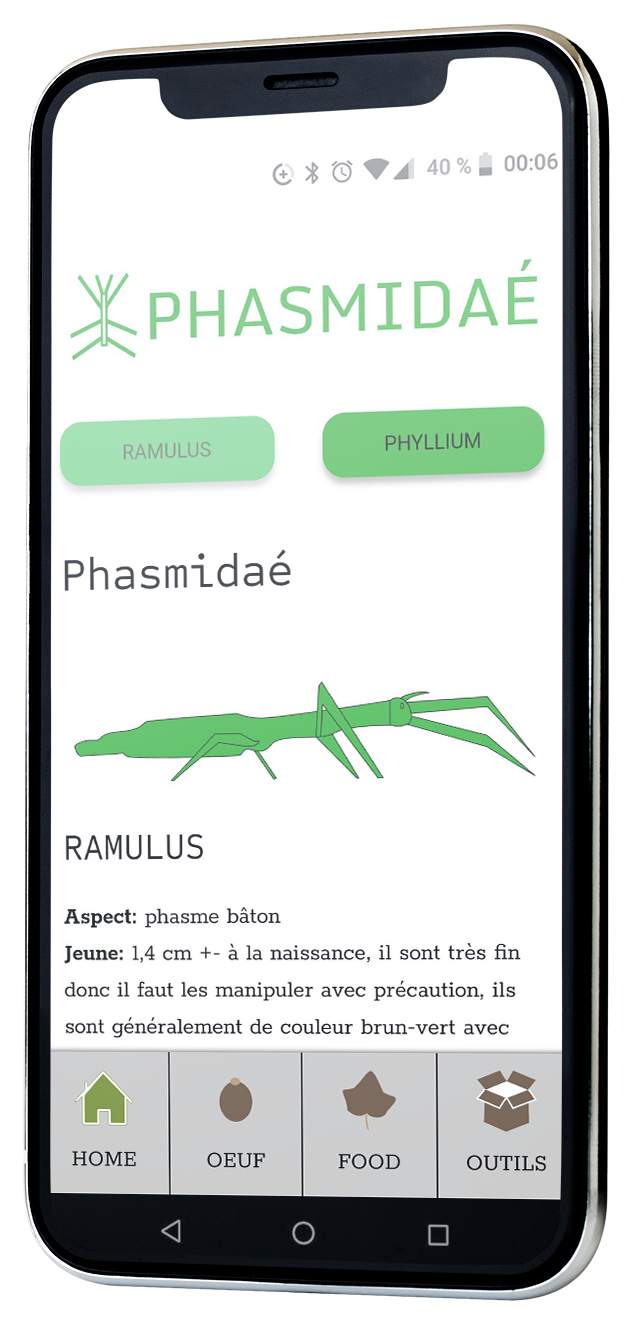
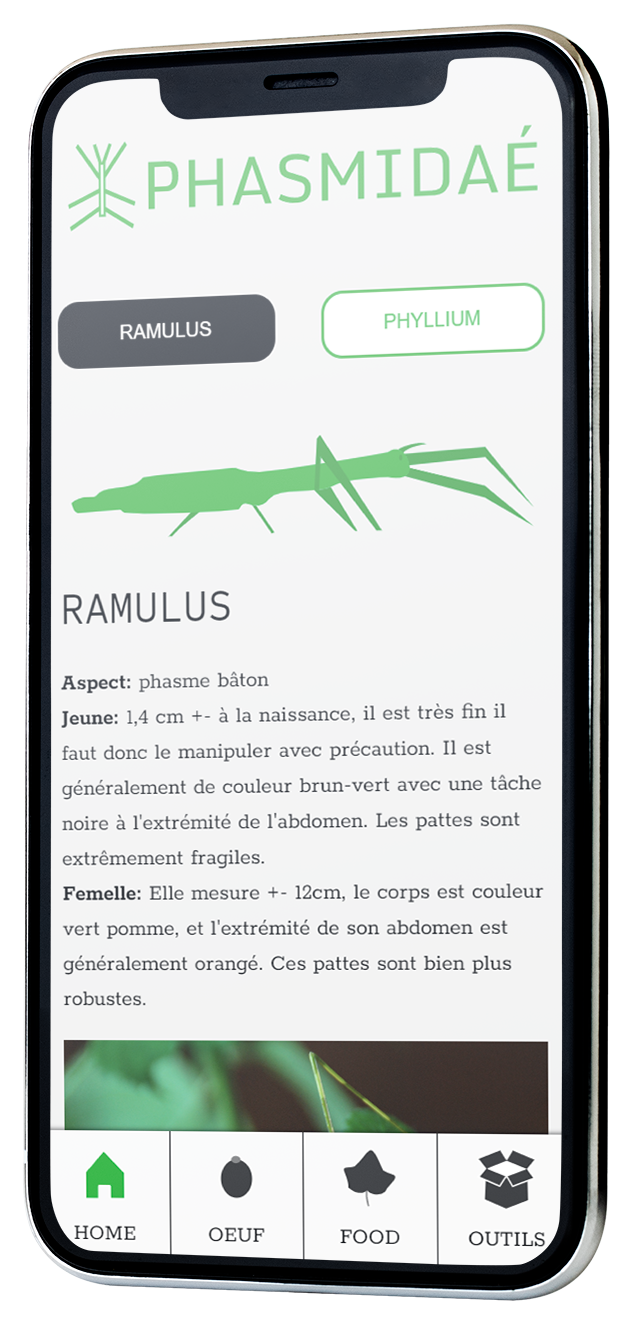
seconde commit V2

Changed region(s): [[0.0606, 0.4966, 0.9091, 0.9621], [0.0909, 0.0931, 0.8788, 0.2793], [0.0909, 0.3104, 0.8788, 0.4656]]

diff --git a/src/index.html b/src/index.html
@@ -47,9 +47,9 @@
 
 </head>
 <body class="body">
-	<header class="header boxShadow">
-		<a href="index.html" class=" pgridRow-start1"><img class="header__img" src="assets/images/Logo_Phasmidae.svg" alt="Logo Phasmidaé"></a>
-		<nav class="menu tgrid-start1 tgrid-end3">
+	<header class="header">
+		<a href="index.html" class=" pgrid-end2 pgridRow-start1"><img class="header__img" src="assets/images/Logo_Phasmidae.svg" alt="Logo Phasmidaé"></a>
+		<nav class="menu tgrid-start1 tgrid-end3 pgrid-start2 pgrid-end7 pgridRow-start1">
 			<ul class="menu__liste grid--nav">
 				<li class="menu__el"><a href="#oeufs" class="lien">OEUFS</a></li>
 				<li class="menu__el"><a href="#alimentation" class="lien">ALIMENTATION</a></li>
@@ -58,6 +58,9 @@
 			</ul>
 		</nav>
 		<button class="navBtn">
+			<div class="btn--sanstexte">
+				<p class="btnContent">Bouton burger</p>
+			</div>
 			<svg class="navBtn__svg" id="navBtn--bergur" xmlns="http://www.w3.org/2000/svg" viewBox="0 0 24 24"  width="36px" height="36px"><path d="M0 0h24v24H0z" fill="none"/><path d="M3 18h18v-2H3v2zm0-5h18v-2H3v2zm0-7v2h18V6H3z"/></svg>
 			<svg class="navBtn__svg navBtn--croix" id="navBtn--croix" xmlns="http://www.w3.org/2000/svg" viewBox="0 0 24 24"  width="36px" height="36px"><path d="M0 0h24v24H0z" fill="none"/><path d="M19 6.41L17.59 5 12 10.59 6.41 5 5 6.41 10.59 12 5 17.59 6.41 19 12 13.41 17.59 19 19 17.59 13.41 12z"/></svg>
 		</button>   
@@ -87,35 +90,35 @@
 			<h2 class="title title--h2 title--troisLigne tgrid-end3 pgrid-start2">C’est&nbsp;une brindille&nbsp;!
 				C’est une feuille&nbsp;! 
 				Non&nbsp;c’est un phasme&nbsp;!</h2>
-			<h3 class="title title--h3 tgrid-end4 pgrid-start2 pgrid-end5">Phasmidaé,&nbsp;l'application pour bien élever vos phasmes ramulus et phylium&nbsp;!</h3>
+			<h3 class="title title--h3 tgrid-end4 pgrid-start2 pgrid-end5">Phasmidaé,&nbsp;l'application pour bien élever vos phasmes ramulus et&nbsp;phylium</h3>
 			<p class="tgrid-end4">Vous&nbsp;en avez assez de chercher des informations basiques sur l'élevage de phasme&nbsp;?&nbsp;
 				Vous&nbsp;trouvez que les informations sont disparates&nbsp;?&nbsp;
 				Avec&nbsp;Phasmidaé,&nbsp;trouvé toutes les informations que vous voulez vraiment&nbsp;!</p>
-			<img class="images tgrid-start4 tgridRow-start2 tgridRow-end5 pgrid-start6 pgrid-end8"  src="assets/images/pasmidae_gsm.png" srcset="assets/images/pasmidae_gsm@2x.png 2x" alt=" "/>
+			<img class="images tgrid-start4 tgridRow-start1 tgridRow-end5 pgrid-start6 pgrid-end8"  src="assets/images/pasmidae_gsm.png" srcset="assets/images/pasmidae_gsm@2x.png 2x" alt=" "/>
 			</section>
 		<section class="section grid">
 			<h2 class="title title--h2 tgrid-end">Trois&nbsp;grands&nbsp;principes</h2>
 			<ul class="icone pgrid-start2 pgrid-end7 tgrid-end">
 				<li class="icone__el icone--oeufs grid grid--icone" id="oeufs">
 					<img class="el__image" src="assets/images/oeufs_actif.svg" alt="">
-					<h3 class="title title--h3">Des&nbsp;petits oeufs&nbsp;!</h3>
+					<h3 class="title title--h3">Reproduction</h3>
 					<p>Les&nbsp;bons trucs à savoir pour bien s'occuper de nos petits&nbsp;œufs</p>
 				</li>
 				<li class="icone__el icone--feuille grid grid--icone" id="alimentation">
 					<img class="el__image" src="assets/images/feuille_actif.svg" alt="">
-					<h3 class="title title--h3 tgrid-end4">Un&nbsp;bon repas&nbsp;!</h3>
+					<h3 class="title title--h3 tgrid-end4">Alimentation</h3>
 					<p>Les&nbsp;meilleurs choix de nourriture par rapport à mais différentes expérience&nbsp;personnelle</p>
 				</li>
 				<li class="icone__el icone--boite grid grid--icone" id="matériel">
 					<img class="el__image" src="assets/images/boite_actif.svg" alt="">
-					<h3 class="title title--h3">Un&nbsp;peu de matériel&nbsp;!</h3>
+					<h3 class="title title--h3">Matériel</h3>
 					<p>Tout&nbsp;le matériel minimum pour bien s'en&nbsp;n'occupé</p>
 				</li>
 			</ul>
 		</section>
 		<div id="téléchargement" class="section grid section--telechargement">
 			<p class="el__telechargement bold">Tester&nbsp;l'application dès&nbsp;maintenant</p> 
-			<a href="mvp/index.html" class="btn lien boxShadow el__telechargement">TESTER L'APPLICATION</a>
+			<a href="mvp/index.html" class="btn lien boxShadow el__telechargement">Tester l'application</a>
 		</div>
 	</main>
 	<footer class="footer boxShadow">

diff --git a/src/assets/sass/_layout.scss b/src/assets/sass/_layout.scss
@@ -4,6 +4,18 @@
 
 @use "_var.scss";
 
+/* PROGRESS BAR */
+.progress-bar {
+    position: fixed;
+    top: 0;
+    height: 8px;
+    width: 0;
+    background-image: linear-gradient(90deg, var(--color-primary) 0%, var(--color-secondary-variant) 100%);
+    z-index: 11;
+    transition: width .2s;
+    will-change: width;
+}
+
 /* HEADER */
 .header__img{
 	width: 100%;
@@ -48,6 +60,7 @@ body[data-menu] .main {
 .header{
     padding: 10px;
     margin-bottom: 36px;
+	border-bottom: solid 1px var(--color-ligne);
 }
 .menu{
     display: none;
@@ -114,25 +127,42 @@ body[data-menu] .main {
 .section:last-child{
     margin-bottom: 72px;
 }
+.main{
+	max-width: 450px;
+	margin: auto;
+}
 .btn{
     margin-top: 18px;
     background-color: var(--color-primary);
     border-radius: 15px;
-    padding: 10px 20px;
+    padding: 30px 40px 25px 40px;
+	font-size: 1.2em;
+	text-align: center;
     text-transform: uppercase;
+	letter-spacing: 1.3px;
 }
 .icone__el{
 	text-align: center;
-	border-bottom: 1.5px solid var(--color-secondary-variant);
+	border-bottom: 1.5px solid var(--color-ligne);
 }
+.icone__el > *{
+	align-self: center;
+	justify-self:center;
+}
+
 .icone__el:last-child{
 	border: none;
 }
 .icone__el>:last-child{
 	padding-bottom: 18px;
+	text-align: left;
+	max-width: 250px;
 }
 .icone__el>:first-child{
-	padding-top: 18px;
+	// padding-top: 18px;
+}
+.icone__el:nth-child(2)>:first-child{
+	padding-top: 13px;
 }
 .images{
 	width: 100%;
@@ -208,7 +238,8 @@ body[data-menu] .main {
 	right: 0px;
 }
 .el__image{
-	max-width: 50%;
+	width: 100%;
+	max-height:120px;
 	justify-self: center;
 }
 
@@ -223,13 +254,24 @@ body[data-menu] .main {
 		display: none;
 	}
 	.icone__el{
-		border-right: 1.5px solid var(--color-secondary-variant);
+		border-right: 1.5px solid var(--color-ligne);
 		border-bottom: none;
+	}
+	.main{
+		max-width: 800px;
+		margin: auto;
+	}
+	.header__img{
+		width: 50%;
+	}
+	.header{
+		padding: 20px;
 	}
 }
 
 @media screen and (min-width: 1440px) {
 	.header__img{
+		width: 100%;
 		max-width: 300px;
 	}
 	.header {

diff --git a/src/case-study.html b/src/case-study.html
@@ -46,7 +46,8 @@
 	<meta name="theme-color" content="#ffffff">
 
 </head>
-<body class="body">
+<body class="body body--caseStudy">
+	<div class="progress-bar"></div>
 	<header class="header boxShadow">
 		<a href="index.html" class=" pgridRow-start1"><img class="header__img" src="assets/images/Logo_Phasmidae.svg" alt="Logo Phasmidaé"></a>
 		<div class="switch header__btn tgridRow-start1" id="switch">
@@ -72,10 +73,37 @@
 	<main class="main">
 		<section class="section grid">
 			<h1 class="title">PHASMIDAÉ Case-study</h1>
-            <h2 class="title title--h2">En construction</h2>
+			<h2 class="title title--h2">Travail de fin d'année ? Mais sur quel sujet ?</h2>
+			<p>
+				Dans l'optique d'un travail de fin d'année pour mon option DWM, 
+				j'ai dû m'amuser as réalisé un projet. 
+				Le sujet étant complétement libre, 
+				j'admets avoir eu beaucoup de difficulté pour trouver un sujet, 
+				j'ai cherché dans les problèmes de mon quotidien, 
+				et même auprès de mes proches sans aucune idée concrète. 
+				Puis j'ai réalisé que je cherchais beaucoup trop loin, 
+				et que mon idée était juste là sous mes yeux. 
+				Mes amis de toujours les phasmes !
+			</p>
 		</section>
+		<section class="section grid">
+			<h2 class="title title--h2">Une problématique</h2>
+			<p>
+				On m'a demandé de travailler au tour d'une problématique de mon sujet, 
+				et cela me semblait évident de ce dont y n'allait pas quand j'élevais, 
+				mais petit insecte. 
+				Je n'arrivai jamais à avoir certaines infos rapidement ou même avoir toute cour avoir ces informations.
+			</p>
+		</section>
+		<section class="section grid">
+			<h2 class="title title--h2">Une hypothèse</h2>
+			<p>
+
+			</p>
+		</section>
+		
 	</main>
-	<footer class="footer boxShadow footer--bottom">
+	<footer class="footer boxShadow">
 		<div class="grid grid--foter">
 			<a class="footer__el" href="http://dwm.re"><img src="assets/images/logo-DWM.svg" alt="Logo DWM"></a>
 			<ul class="navSecondaire footer__el">

diff --git a/src/assets/sass/_var.scss b/src/assets/sass/_var.scss
@@ -13,6 +13,7 @@
 	--color-primary-hover-variant:#003117;
 	--color-primary-hover-menu:	  #016832;
 	--color-primary-visited:	  #001e5b;
+	--color-ligne:				  #CCCCCC;
 	--color-on-primary:			  #000000;
 	--color-on-secondary:		  #000000;
 	--color-on-background:		  #000000;
@@ -28,6 +29,7 @@
 	--color-primary-hover:		  #99c41a;
 	--color-primary-hover-variant:#003117;
 	--color-primary-hover-menu:	  #016832;
+	--color-ligne:				  #CCCCCC;
 	--color-primary-visited:	  #001e5b;
 	--color-on-primary:			  #000000;
 	--color-on-secondary:		  #000000;
@@ -45,6 +47,7 @@
 	--color-primary-hover:		#B6EA20;
 	--color-primary-hover-menu:	#B6EA20;
 	--color-primary-visited:	#001e5b;
+	--color-ligne:				#04773B;
 	--color-on-primary:			#000000;
 	--color-on-secondary:		#000000;
 	--color-on-background:		#ffffff;

diff --git a/src/assets/sass/_grid.scss b/src/assets/sass/_grid.scss
@@ -136,7 +136,7 @@
 }
 
 @media screen and (min-width: 1440px) {
-    .grid {
+    .grid, .header{
         grid-template-columns: repeat(7, 1fr);
         grid-gap: 36px 54px;
         margin-bottom: 5em;
@@ -146,6 +146,10 @@
     }
     .grid > *{
         grid-column: 2 / 5;
+    }
+    .header > *{
+        grid-column: 1 / -1;
+        align-self:center;
     }
     // .section--icone > *{
     //     grid-column: 1 / -1;
@@ -198,12 +202,9 @@
     .grid--icone{
         grid-template-columns: 1fr 2fr 1fr;
     }
-    .header{
-        grid-template-columns: repeat(4, 1fr);
-    }
-    .header > *{
-        grid-column: 2 / -2;
-    }
+    // .header{
+    //     grid-template-columns: repeat(4, 1fr);
+    // }
     .section--icone .icone{
         width: 160px;
         grid-gap: 0px 18px;

diff --git a/src/assets/js/main.js b/src/assets/js/main.js
@@ -70,3 +70,23 @@ let date = new Date().getFullYear();
 
 document.getElementById("year").innerHTML = date;
 
+
+/*-------------Progress-bar-----------------*/
+let caseStudy = document.querySelector(".body--caseStudy");
+if(caseStudy){
+    const body = document.body;
+    const progressBar = document.querySelector('.progress-bar');
+    function stretch() {
+      const pixelScrolled = window.scrollY;
+      const viewportHeight = window.innerHeight;
+      const totalContentHeight = body.scrollHeight;   
+      const pixelToPerc = (pixelScrolled / (totalContentHeight - viewportHeight)) * 100;
+      progressBar.style.width = Math.round(pixelToPerc) + '%';
+    }
+    window.addEventListener('scroll', stretch);
+}
+
+
+
+
+/*--------------------------------------------*/

diff --git a/src/assets/sass/_list.scss b/src/assets/sass/_list.scss
@@ -42,6 +42,7 @@
             padding: 1em;
             margin: .5em;
             font-size: 25px;
+            letter-spacing: 1.5px;
         }
     }
 }
@@ -64,7 +65,7 @@
     .menu{
         display: inherit;
         &__el{
-            border-right: var(--color-on-background) 1.5px solid;
+            border-right: inherit;
             border-bottom: none;
             &:last-child{
                 border: none;

diff --git a/src/assets/sass/main.scss b/src/assets/sass/main.scss
@@ -20,7 +20,7 @@
 
 .lien{
     text-decoration: none; 
-    color: var(--color-on-primary);
+    color: #000;
 }
 .lien:visited{
     color: var(--color-primary-visited);
